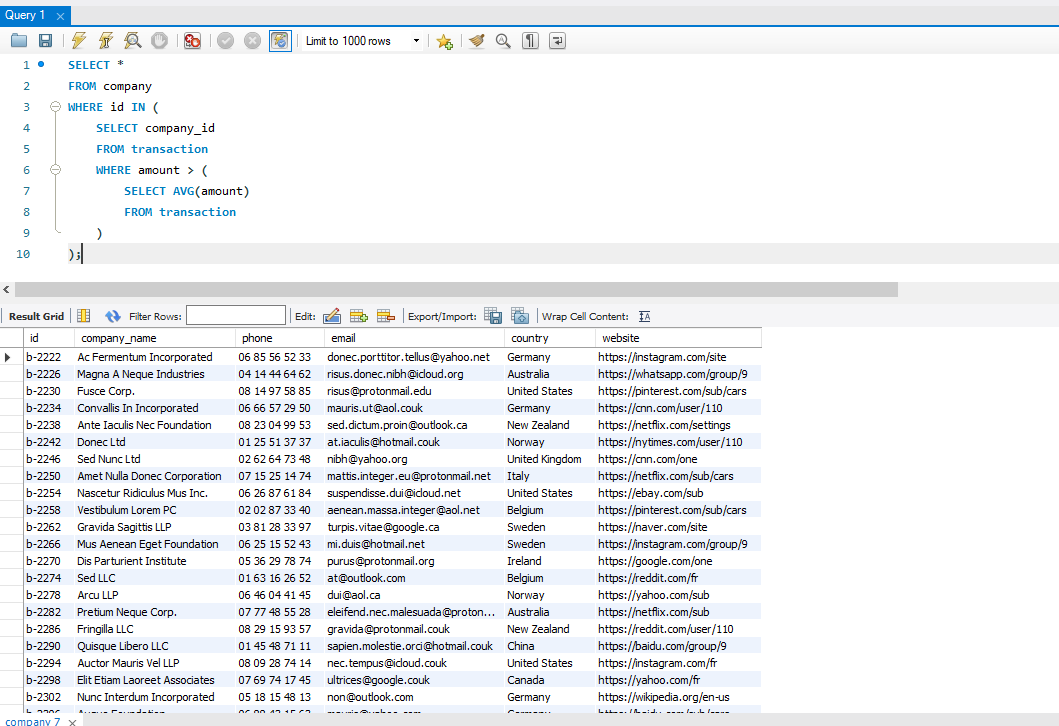
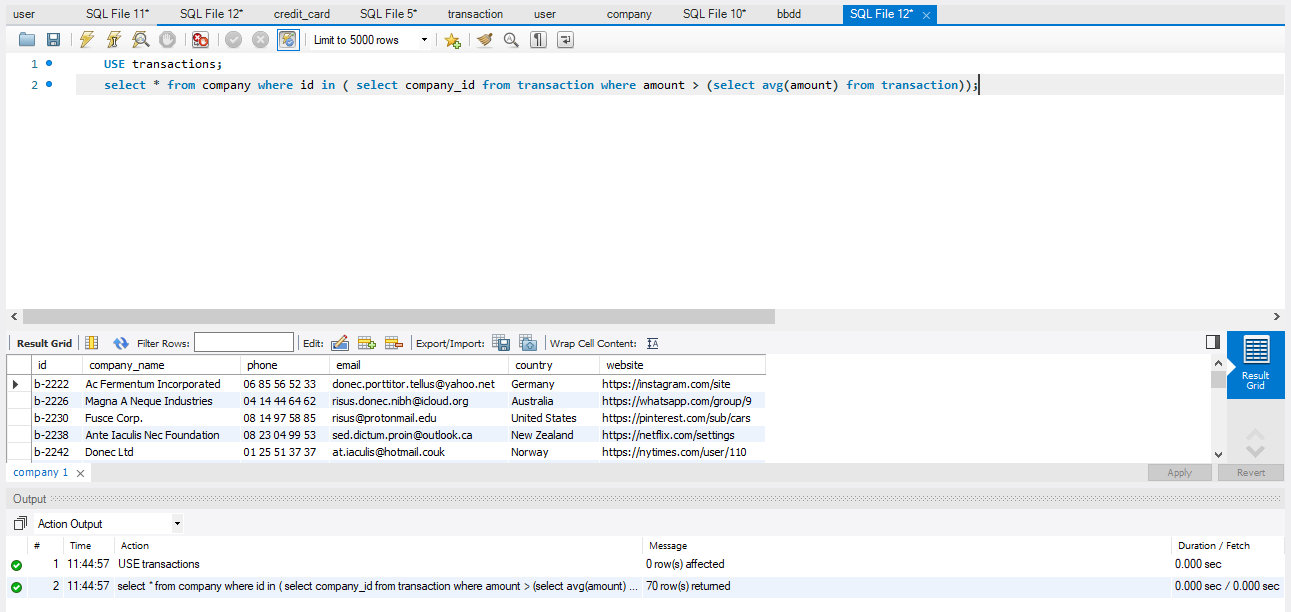
miercoles 01

diff --git a/sprint2/sprint2.md b/sprint2/sprint2.md
@@ -1,7 +1,7 @@
 ![IT Academy Logo](https://github.com/ciberzerone/it_Academy_Data_Scientist/blob/main/sprint2/imagen/logoIT.png)
 
 
-[Ver base datos en SQL](https://github.com/ciberzerone/it_Academy_Data_Scientist/blob/main/sprint2/sql/bbdd.sql)
+[Ver scripts SQL](https://github.com/ciberzerone/it_Academy_Data_Scientist/blob/main/sprint2/sql/bbdd.sql)
 
 [Ver Sprint en PDF](https://github.com/ciberzerone/it_Academy_Data_Scientist/blob/main/sprint2/pdf/sprint2.pdf)
 
@@ -113,13 +113,8 @@ WHERE company_id IN (
 ## Consulta 2: Lista las empresas que han realizado transacciones por un amount superior a la media de todas las transacciones.
 
 ```sql
-SELECT *
-FROM transaction
-WHERE company_id IN (
-    SELECT id
-    FROM company
-    WHERE country = 'Germany'
-);
+    USE transactions;
+    select * from company where id in ( select company_id from transaction where amount > (select avg(amount) from transaction));
 ```
 ### Imagen de consulta  empresas que han realizado transacciones por un amount superior a la media de todas las transacciones:
 ![Listado empresas que han realizado transacciones por un amount superior a la media de todas las transacciones](https://github.com/ciberzerone/it_Academy_Data_Scientist/blob/main/sprint2/imagen/ej03_consulta_media.PNG)

diff --git a/sprint3/sprint3.md b/sprint3/sprint3.md
@@ -122,7 +122,7 @@ WHERE id = 'CcU-2938';
 <hr>
 
 
-# Ejercicio 2:  En la tabla `transaction` ingresar un nuevo usuario. 
+# Ejercicio 3:  En la tabla `transaction` ingresar un nuevo usuario. 
 
 ## Consulta 1: Ingresar los siguientes datos:
 
